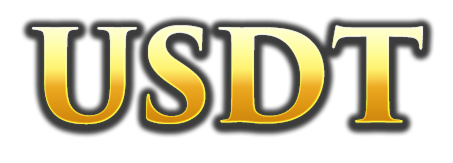
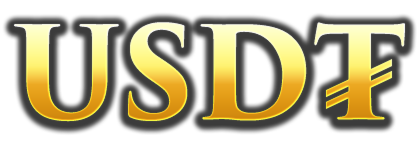
Update new currencies

diff --git a/assets/scripts/core/LocalizationManager.ts b/assets/scripts/core/LocalizationManager.ts
@@ -24,8 +24,8 @@
  *   vi    — Vietnamese (Tiếng Việt)
  *   au    — Australia English (AUD / A$)
  *   hk    — Hong Kong English (HKD / HK$)
- *   ca    — Canada English (CAD / C$)
- *   usdt  — USDT (USDT)
+ *   ca    — Canada English (CAD / CA$)
+ *   usdt  — USDT (USD₮)
  *
  * ★ 2 CHẾ ĐỘ HOẠT ĐỘNG:
  *   LOCAL:  Dùng file .ts build sẵn trong game (mặc định, offline-safe).
@@ -91,8 +91,8 @@ export const CURRENCY_SYMBOL_MAP: Record<string, string> = {
     'IDR': 'Rp',
     'HKD': 'HK$',
     'AUD': 'A$',
-    'CAD': 'C$',
-    'USDT': 'USDT',
+    'CAD': 'CA$',
+    'USDT': 'USD₮',
     'INR': '₹',
 };
 
@@ -135,7 +135,7 @@ export const SUPPORTED_LANGUAGES: { code: LanguageCode; name: string; nativeName
     { code: 'au',    name: 'Australia',            nativeName: 'English (AU)' },
     { code: 'hk',    name: 'Hong Kong',            nativeName: 'English (HK)' },
     { code: 'ca',    name: 'Canada',               nativeName: 'English (CA)' },
-    { code: 'usdt',  name: 'USDT',                 nativeName: 'USDT' },
+    { code: 'usdt',  name: 'USDT',                 nativeName: 'USD₮' },
 ];
 
 // ═══════════════════════════════════════════════════════════
@@ -219,9 +219,9 @@ export class LocalizationManager {
      * Nếu có currency override từ server, dùng symbol đó để tính.
      *
      * Dùng để canh size khung node chứa số tiền:
-     *   - 'usdt' → 4  (USDT)
-     *   - 'zh-tw' / 'hk' → 3  (NT$ / HK$)
-     *   - 'sg' / 'au' / 'ms' / 'ca' → 2  (S$ / A$ / RM / C$)
+     *   - 'usdt' → 4  (USD₮)
+     *   - 'zh-tw' / 'hk' / 'ca' → 3  (NT$ / HK$ / CA$)
+     *   - 'sg' / 'au' / 'ms' → 2  (S$ / A$ / RM)
      *   - tất cả còn lại → 1  (ký hiệu là "$", "₩", "¥", "฿", "₱" — 1 ký tự)
      *
      * @param lang  (Tuỳ chọn) Ngôn ngữ cần kiểm tra. Mặc định là ngôn ngữ hiện tại.
@@ -229,9 +229,9 @@ export class LocalizationManager {
     getCurrencyCharCount(lang?: LanguageCode): number {
         if (this._currencyOverride !== null) return this._currencyOverride.length;
         const code = lang ?? this._currentLang;
-        if (code === 'usdt') return 4;  // USDT
-        if (code === 'zh-tw' || code === 'hk') return 3;  // NT$ / HK$
-        if (code === 'sg' || code === 'au' || code === 'ms' || code === 'ca') return 2;  // S$ / A$ / RM / C$
+        if (code === 'usdt') return 4;  // USD₮
+        if (code === 'zh-tw' || code === 'hk' || code === 'ca') return 3;  // NT$ / HK$ / CA$
+        if (code === 'sg' || code === 'au' || code === 'ms') return 2;  // S$ / A$ / RM
         return 1;
     }
 
@@ -431,7 +431,7 @@ export class LocalizationManager {
      *   au / en-au  → au     (Australia English / AUD)
      *   hk / en-hk  → hk     (Hong Kong English / HKD)
      *   ca / en-ca  → ca     (Canada English / CAD)
-     *   usdt        → usdt   (USDT)
+     *   usdt        → usdt   (USD₮)
      *   Others      → as-is mapping (ko, en, ja, th, fil, ...)
      */
     private _normalizeLangCode(input: string): LanguageCode {

diff --git a/assets/scripts/data/ServerConfig.ts b/assets/scripts/data/ServerConfig.ts
@@ -230,8 +230,8 @@ export const DEBUG_RANDS: readonly number[] | null =  null;//DEBUG_RANDS_PRESET.
  *  'vi'      — Vietnamese (Tiếng Việt)
  *  'au'      — Australia English (AUD / A$)
  *  'hk'      — Hong Kong English (HKD / HK$)
- *  'ca'      — Canada English (CAD / C$)
- *  'usdt'    — USDT
+ *  'ca'      — Canada English (CAD / CA$)
+ *  'usdt'    — USDT (USD₮)
  */
 
 export const DEV_FORCE_LANG: string | null = null;  // null = auto-detect từ URL `gl` parameter
@@ -276,7 +276,7 @@ export const TestLoginConfig = {
     PlatformId: 'testuser01',
     DeviceToken: 'a2b07025fdc0416c8ef8cb68ea39c1ef',
     IsPractice: false,
-    Currency: 'USD',
+    Currency: 'CAD',
     PartnerId: null as number | null,
 };
 

diff --git a/extensions/language-switcher/main.js b/extensions/language-switcher/main.js
@@ -31,7 +31,7 @@ const LANGUAGES = [
     { code: 'au',    label: 'Australia',                native: 'English (AU)',   flag: '🇦🇺' },
     { code: 'hk',    label: 'Hong Kong',                native: 'English (HK)',   flag: '🇭🇰' },
     { code: 'ca',    label: 'Canada',                   native: 'English (CA)',   flag: '🇨🇦' },
-    { code: 'usdt',  label: 'USDT',                     native: 'USDT',           flag: '₮' },
+    { code: 'usdt',  label: 'USDT',                     native: 'USD₮',           flag: '₮' },
 ];
 
 // ─── Extension lifecycle ──────────────────────────────────────────────────────

diff --git a/assets/scripts/core/SpriteNumber.ts b/assets/scripts/core/SpriteNumber.ts
@@ -278,8 +278,8 @@ export class SpriteNumber extends Component {
         'VND': 9,   // ₫    → vi sprite
         'AUD': 10,  // A$   → au sprite
         'HKD': 11,  // HK$  → hk sprite
-        'CAD': 12,  // C$   → ca sprite
-        'USDT': 13, // USDT → usdt sprite
+        'CAD': 12,  // CA$  → ca sprite
+        'USDT': 13, // USD₮ → usdt sprite
         'EUR': 0,   // €    → en sprite (fallback)
         'GBP': 0,   // £    → en sprite (fallback)
         'IDR': 0,   // Rp   → en sprite (fallback)

diff --git a/assets/scripts/data/locales/usdt.ts b/assets/scripts/data/locales/usdt.ts
@@ -1,5 +1,5 @@
 /**
- * USDT locale (usdt) — USDT
+ * USDT locale (usdt) — USD₮
  *
  * Dùng chung text English; chỉ khác ký hiệu tiền tệ.
  * Không cần font riêng (dùng default Latin font).
@@ -9,6 +9,6 @@ import { LOCALE_EN } from './en';
 
 export const LOCALE_USDT: LocaleData = {
     ...LOCALE_EN,
-    currency_symbol: 'USDT',
-    CLIENT_CURRENENCY_SYMBOL: 'USDT',
+    currency_symbol: 'USD₮',
+    CLIENT_CURRENENCY_SYMBOL: 'USD₮',
 };

diff --git a/assets/scripts/data/locales/ca.ts b/assets/scripts/data/locales/ca.ts
@@ -1,5 +1,5 @@
 /**
- * Canada English (ca) — CAD / C$
+ * Canada English (ca) — CAD / CA$
  *
  * Dùng chung text English; chỉ khác ký hiệu tiền tệ.
  * Không cần font riêng (dùng default Latin font).
@@ -9,6 +9,6 @@ import { LOCALE_EN } from './en';
 
 export const LOCALE_CA: LocaleData = {
     ...LOCALE_EN,
-    currency_symbol: 'C$',
-    CLIENT_CURRENENCY_SYMBOL: 'C$',
+    currency_symbol: 'CA$',
+    CLIENT_CURRENENCY_SYMBOL: 'CA$',
 };
